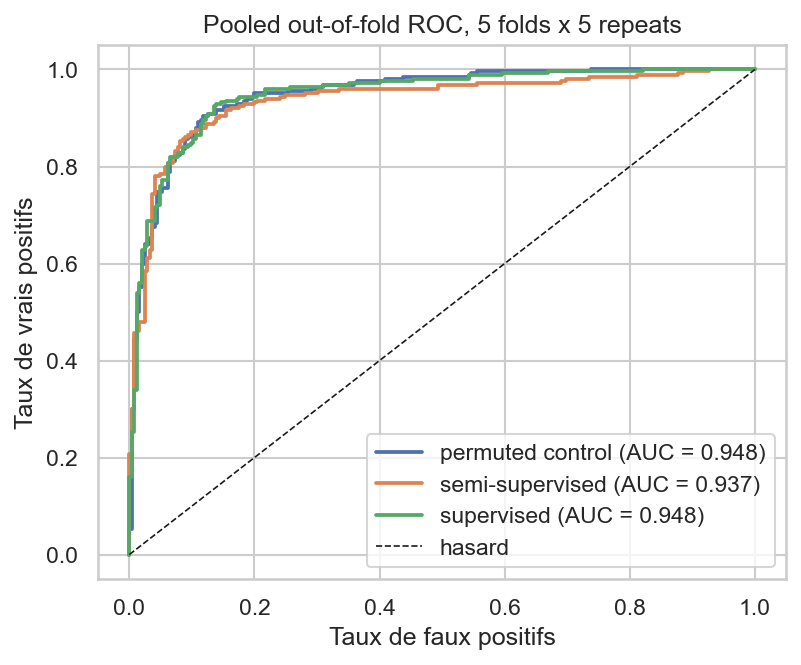
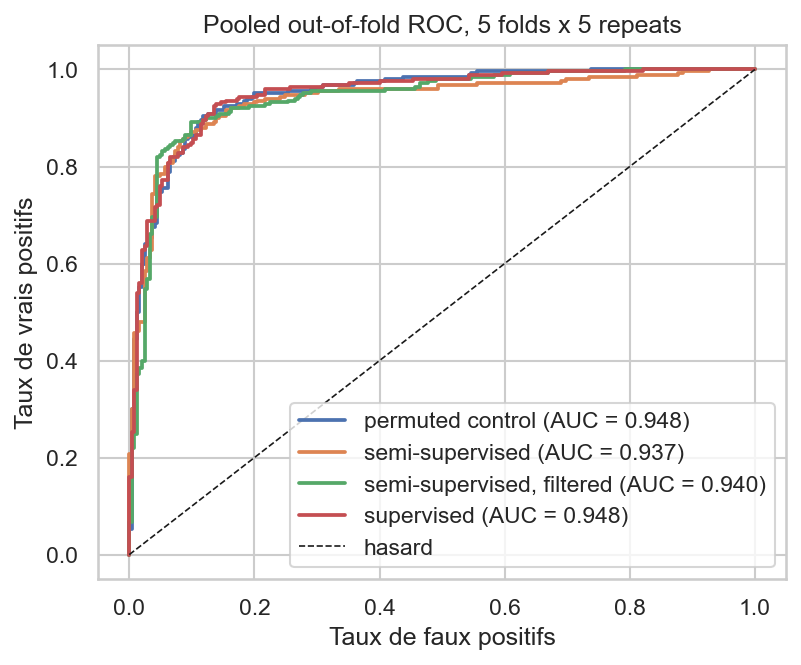
feat(figures): draw the calibration and the efficiency curve

Changed region(s): [[0.3433, 0.6015, 0.9675, 0.8421], [0.1561, 0.0902, 0.9363, 0.8421]]

diff --git a/scripts/build_figures.py b/scripts/build_figures.py
@@ -22,20 +22,30 @@ sys.stdout.reconfigure(encoding="utf-8", errors="replace")
 import matplotlib.pyplot as plt
 import pandas as pd
 
-from mri_semisupervised.config import EXPERIMENTS_DIR, FIGURES_DIR, ensure_dirs
+from mri_semisupervised.config import (
+    EXPERIMENTS_DIR,
+    FIGURES_DIR,
+    MANIFEST_PATH,
+    ensure_dirs,
+)
+from mri_semisupervised.protocol.calibration import summarise_calibration
+from mri_semisupervised.protocol.errors import per_image_errors, pool_overlap_rates
 from mri_semisupervised.protocol.uncertainty import paired_difference
 from mri_semisupervised.viz.plots import plot_roc_compare
 
 ARM_LABEL = {
     "supervised": "supervised",
     "semi_supervised": "semi-supervised",
+    "semi_supervised_confident": "semi-supervised, filtered",
     "permuted_control": "permuted control",
 }
 ARM_COLOUR = {
     "supervised": "#4c78a8",
     "semi_supervised": "#f58518",
+    "semi_supervised_confident": "#e45756",
     "permuted_control": "#9c9c9c",
 }
+BUDGETS = (10, 20, 40)
 
 
 def _load(mode: str) -> tuple[pd.DataFrame, pd.DataFrame, dict] | None:
@@ -176,6 +186,161 @@ def figure_leak_price(corrected: pd.DataFrame, legacy: pd.DataFrame, path: Path)
     print(f"[ok] {path.name}")
 
 
+def figure_calibration(predictions: pd.DataFrame, path: Path) -> None:
+    """Reliability curves: what a score of 0.4 is actually worth.
+
+    ROC AUC cannot see this. A model whose ranking is perfect and whose scale is squashed
+    scores 1.0 and still tells a clinician the wrong number.
+    """
+    summary, curves = summarise_calibration(predictions, n_bins=10)
+    figure, axis = plt.subplots(figsize=(6.5, 6))
+    axis.plot([0, 1], [0, 1], color="#bbbbbb", linestyle="--", linewidth=1, label="perfect")
+
+    for arm, curve in curves.items():
+        row = summary[summary["arm"] == arm].iloc[0]
+        axis.plot(
+            curve["mean_score"],
+            curve["observed"],
+            marker="o",
+            markersize=4,
+            color=ARM_COLOUR.get(arm, "#333333"),
+            label=f"{ARM_LABEL.get(arm, arm)} — Brier {row['brier']:.3f}, ECE {row['ece']:.3f}",
+        )
+
+    axis.set_xlabel("mean predicted probability (equal-population bins)")
+    axis.set_ylabel("observed cancer rate")
+    axis.set_title("Calibration, pooled out of fold")
+    axis.set_xlim(0, 1)
+    axis.set_ylim(0, 1)
+    axis.legend(fontsize=8, loc="upper left")
+    figure.savefig(path, dpi=150, bbox_inches="tight")
+    plt.close(figure)
+    print(f"[ok] {path.name}")
+
+
+def figure_label_efficiency(path: Path) -> pd.DataFrame | None:
+    """Two panels; the second is the one that answers the question.
+
+    The top panel shows the task getting easier as labels are added, which is expected and
+    says nothing about semi-supervision. Only the paired difference against the permuted
+    control does, and it gets its own axis so it cannot be read off the first by eye.
+    """
+    points = []
+    for budget in BUDGETS:
+        loaded = _load(f"budget-{budget}")
+        if loaded is None:
+            continue
+        points.append((budget, loaded[0]))
+    full = _load("corrected")
+    if full is not None:
+        points.append((int(full[2]["protocol"].get("label_budget") or 59), full[0]))
+    if len(points) < 2:
+        print("[warn] not enough budgets to draw the curve")
+        return None
+
+    rows = []
+    for budget, per_fold in sorted(points):
+        pivot = per_fold.pivot(index="fold", columns="arm", values="roc_auc")
+        for arm in pivot.columns:
+            rows.append(
+                {
+                    "budget": budget,
+                    "arm": arm,
+                    "mean": float(pivot[arm].mean()),
+                    "sd": float(pivot[arm].std()),
+                }
+            )
+        if {"semi_supervised", "permuted_control"} <= set(pivot.columns):
+            out = paired_difference(
+                pivot["semi_supervised"].to_numpy(), pivot["permuted_control"].to_numpy()
+            )
+            rows.append(
+                {
+                    "budget": budget,
+                    "arm": "difference",
+                    "mean": out["mean_difference"],
+                    "ci_low": out["ci_low"],
+                    "ci_high": out["ci_high"],
+                    "p_value": out["p_value"],
+                }
+            )
+    frame = pd.DataFrame(rows)
+
+    figure, (top, bottom) = plt.subplots(
+        2, 1, figsize=(7, 7.5), sharex=True, gridspec_kw={"height_ratios": [2, 1]}
+    )
+    for arm in ("supervised", "semi_supervised", "permuted_control"):
+        part = frame[frame["arm"] == arm].sort_values("budget")
+        if part.empty:
+            continue
+        top.errorbar(
+            part["budget"],
+            part["mean"],
+            yerr=part["sd"],
+            marker="o",
+            capsize=3,
+            color=ARM_COLOUR.get(arm, "#333333"),
+            label=ARM_LABEL.get(arm, arm),
+        )
+    top.set_ylabel("ROC AUC")
+    top.set_title("Label efficiency: the task, and then the question")
+    top.legend(fontsize=9)
+
+    diff = frame[frame["arm"] == "difference"].sort_values("budget")
+    bottom.axhline(0.0, color="#bbbbbb", linestyle="--", linewidth=1)
+    bottom.errorbar(
+        diff["budget"],
+        diff["mean"],
+        yerr=[diff["mean"] - diff["ci_low"], diff["ci_high"] - diff["mean"]],
+        marker="o",
+        capsize=3,
+        color="#f58518",
+    )
+    bottom.set_xlabel("training labels per fold")
+    bottom.set_ylabel("semi-supervised minus control")
+    figure.savefig(path, dpi=150, bbox_inches="tight")
+    plt.close(figure)
+    print(f"[ok] {path.name}")
+    return frame
+
+
+def figure_hardest_images(errors: pd.DataFrame, manifest: pd.DataFrame, path: Path) -> None:
+    """The twelve images the supervised arm misses most, with what it said about them.
+
+    An aggregate rate says a model is wrong 7% of the time. It does not say the misses are
+    the same handful of scans every fold, which on ninety-nine images is checkable by eye.
+    """
+    from PIL import Image
+
+    worst = (
+        errors[errors["arm"] == "supervised"]
+        .sort_values(["wrong_share", "n_wrong"], ascending=False)
+        .head(12)
+    )
+    paths = dict(zip(manifest["image_id"], manifest["path"], strict=True))
+
+    figure, axes = plt.subplots(3, 4, figsize=(11, 9))
+    for axis, row in zip(axes.ravel(), worst.itertuples(), strict=False):
+        source = paths.get(row.image_id)
+        if source and Path(source).exists():
+            with Image.open(source) as image:
+                axis.imshow(image.convert("L"), cmap="gray")
+        truth = "cancer" if row.y_true == 1 else "normal"
+        pool = ", also in pool" if row.also_in_pool else ""
+        axis.set_title(
+            f"{truth}, score {row.mean_score:.2f}\nmissed {row.n_wrong}/{row.n_folds}{pool}",
+            fontsize=8,
+        )
+        axis.axis("off")
+    for axis in axes.ravel()[len(worst) :]:
+        axis.axis("off")
+
+    figure.suptitle("What the supervised arm gets wrong, and how confidently", fontsize=11)
+    figure.savefig(path, dpi=150, bbox_inches="tight")
+    plt.close(figure)
+    print(f"[ok] {path.name}")
+
+
 def main() -> None:
     ensure_dirs()
     FIGURES_DIR.mkdir(parents=True, exist_ok=True)
@@ -191,9 +356,27 @@ def main() -> None:
     figure_arms(per_fold, FIGURES_DIR / "arms_comparison.png")
     figure_paired(per_fold, FIGURES_DIR / "paired_differences.png")
 
+    figure_calibration(predictions, FIGURES_DIR / "calibration.png")
+
     legacy_loaded = _load("legacy")
     if legacy_loaded is not None:
         figure_leak_price(per_fold, legacy_loaded[0], FIGURES_DIR / "leak_price.png")
+
+    manifest_path = Path(MANIFEST_PATH)
+    if manifest_path.exists():
+        manifest = pd.read_parquet(manifest_path)
+        errors = per_image_errors(predictions, per_fold, manifest)
+        target = EXPERIMENTS_DIR / "corrected" / "per_image_errors.parquet"
+        errors.to_parquet(target, index=False)
+        print(f"[ok] {target.name}")
+        print(pool_overlap_rates(errors).round(3).to_string(index=False))
+        figure_hardest_images(errors, manifest, FIGURES_DIR / "hardest_images.png")
+
+    curve = figure_label_efficiency(FIGURES_DIR / "label_efficiency.png")
+    if curve is not None:
+        target = EXPERIMENTS_DIR / "label_efficiency.parquet"
+        curve.to_parquet(target, index=False)
+        print(f"[ok] {target.name}")
 
 
 if __name__ == "__main__":
